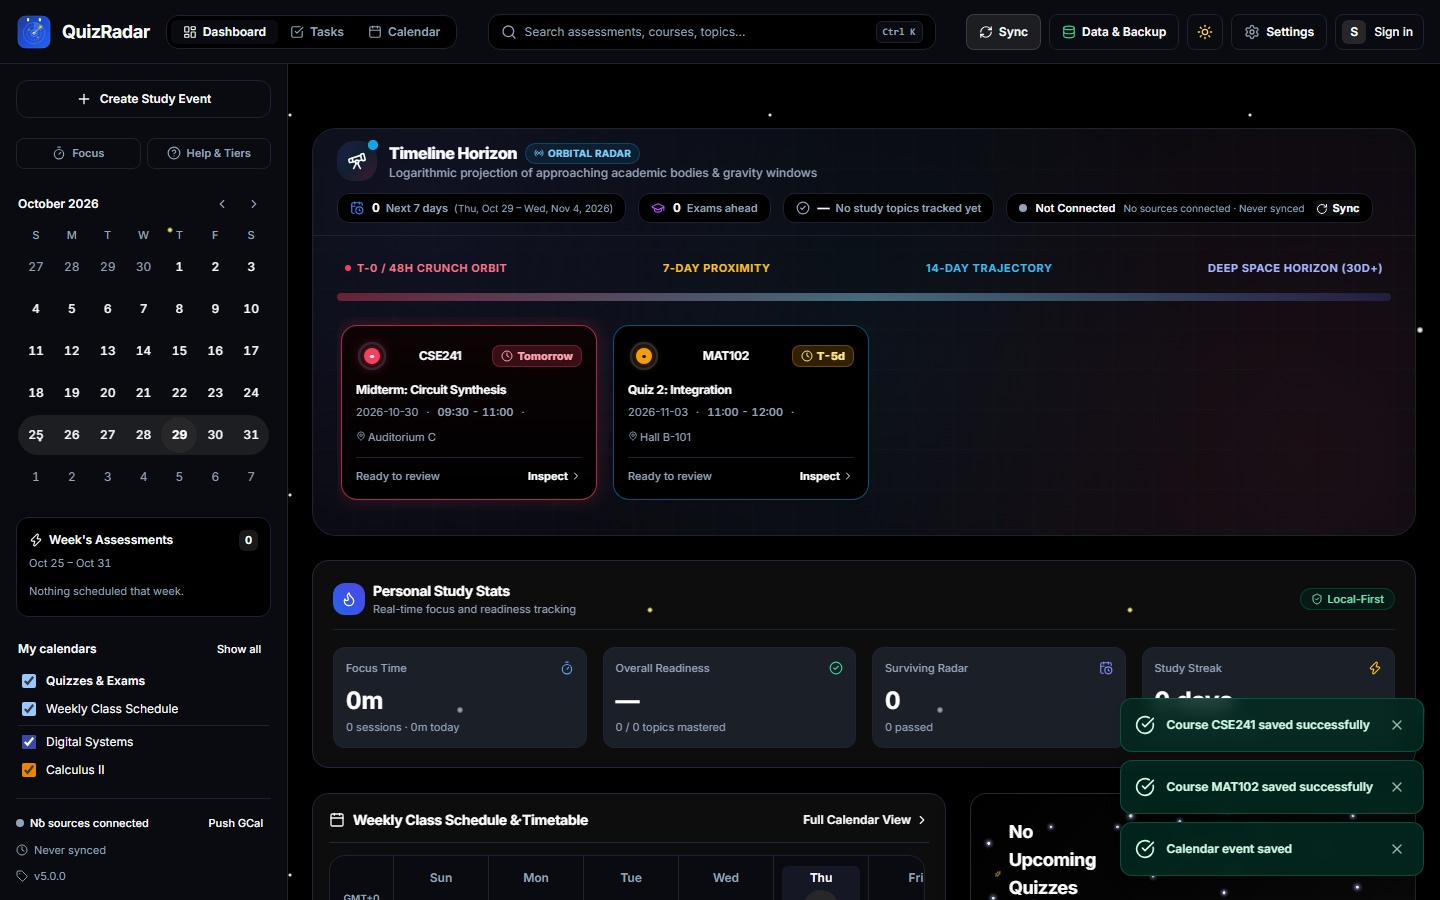
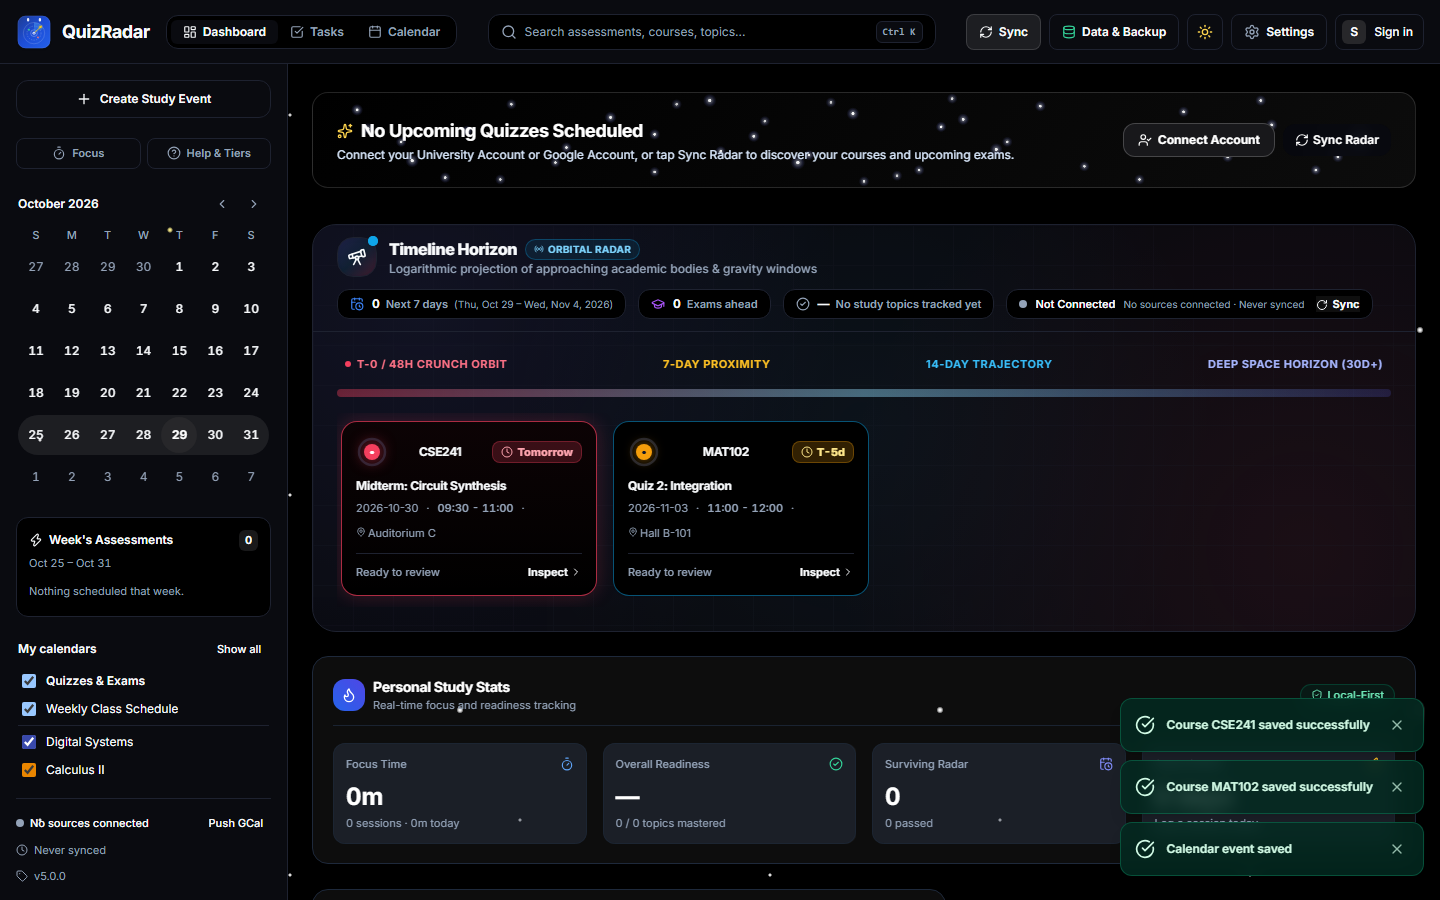
feat(observatory): position hero at top of canopy and implement proactive balanced conflict scheduler

diff --git a/apps/web/src/components/TimelineHorizon.tsx b/apps/web/src/components/TimelineHorizon.tsx
@@ -81,6 +81,7 @@ export const TimelineHorizon: React.FC<TimelineHorizonProps> = ({
 }) => {
   const theme = useAppStore((s) => s.theme);
   const courses = useAppStore((s) => s.data.schedule.courses);
+  const draftBalancedFlightPath = useAppStore((s) => s.draftBalancedFlightPath);
 
   // Map recommendations by assessment id for quick topic lookup
   const recMap = useMemo(() => {
@@ -334,9 +335,21 @@ export const TimelineHorizon: React.FC<TimelineHorizonProps> = ({
           <div className="space-y-4">
             {/* Horizon Temporal Scale Labels */}
             <div className="relative flex items-center justify-between text-[11px] font-bold tracking-wider uppercase text-[var(--text-muted)] px-2">
-              <div className="flex items-center gap-1.5 text-rose-500 dark:text-rose-400">
-                <span className="h-1.5 w-1.5 rounded-full bg-rose-500 animate-ping" />
-                <span>T-0 / 48H Crunch Orbit</span>
+              <div className="flex items-center gap-2">
+                <div className="flex items-center gap-1.5 text-rose-500 dark:text-rose-400">
+                  <span className="h-1.5 w-1.5 rounded-full bg-rose-500 animate-ping" />
+                  <span>T-0 / 48H Crunch Orbit</span>
+                </div>
+                {conflictAlerts.some((c) => !c.isMitigated) && (
+                  <button
+                    type="button"
+                    onClick={() => void draftBalancedFlightPath()}
+                    className="cursor-pointer inline-flex items-center gap-1 rounded-full border border-rose-500/30 bg-rose-500/10 hover:bg-rose-500/20 px-2 py-0.5 text-[10px] font-bold text-rose-600 dark:text-rose-300 transition"
+                  >
+                    <Sparkles className="h-2.5 w-2.5 text-rose-400" aria-hidden="true" />
+                    <span>Balance 48h Flight Path</span>
+                  </button>
+                )}
               </div>
               <div className="hidden sm:block text-amber-500 dark:text-amber-400">
                 <span>7-Day Proximity</span>

diff --git a/apps/web/src/components/ConflictBanner.tsx b/apps/web/src/components/ConflictBanner.tsx
@@ -10,6 +10,7 @@ export const ConflictBanner: React.FC = () => {
   const customEvents = useAppStore((s) => s.data.config.customEvents) || [];
   const dismissConflicts = useAppStore((s) => s.dismissConflicts);
   const scheduleStudyBlocks = useAppStore((s) => s.scheduleStudyBlocks);
+  const draftBalancedFlightPath = useAppStore((s) => s.draftBalancedFlightPath);
   const setView = useAppStore((s) => s.setView);
 
   // Hidden when dismissed or when no conflict alerts exist
@@ -137,13 +138,20 @@ export const ConflictBanner: React.FC = () => {
         </div>
       </div>
 
-      <div className="flex items-center gap-2 shrink-0">
+      <div className="flex items-center gap-2 shrink-0 flex-wrap">
         <button
           type="button"
-          onClick={() => scheduleStudyBlocks()}
-          className="px-3 py-1.5 rounded-lg bg-amber-700 hover:bg-amber-800 text-white text-xs font-bold transition flex items-center gap-1.5 shadow-2xs cursor-pointer"
+          onClick={() => void draftBalancedFlightPath()}
+          className="px-3 py-1.5 rounded-lg bg-emerald-600 hover:bg-emerald-700 text-white text-xs font-bold transition flex items-center gap-1.5 shadow-2xs cursor-pointer"
         >
-          <Sparkles className="h-3.5 w-3.5" aria-hidden="true" />
+          <Sparkles className="h-3.5 w-3.5 text-emerald-200" aria-hidden="true" />
+          <span>{copy.dashboard.conflictBanner.balancedFlightPathAction}</span>
+        </button>
+        <button
+          type="button"
+          onClick={() => void scheduleStudyBlocks()}
+          className="px-3 py-1.5 rounded-lg bg-amber-700/80 hover:bg-amber-800 text-white text-xs font-bold transition flex items-center gap-1.5 shadow-2xs cursor-pointer"
+        >
           <span>{copy.dashboard.conflictBanner.autoScheduleAction}</span>
         </button>
         <button

diff --git a/apps/web/src/state/store.ts b/apps/web/src/state/store.ts
@@ -1255,7 +1255,7 @@ export const useAppStore = create<AppStoreState>((set, get) => ({
           }
         }
         for (const ev of existingEvents) {
-          if (ev.dateIso === dateIso || ev.date === dateIso) {
+          if (ev.dateIso === dateIso) {
             if (ev.startTime && ev.endTime) {
               const eStart = parseInt(ev.startTime.slice(0, 2), 10) * 60 + parseInt(ev.startTime.slice(3, 5), 10);
               const eEnd = parseInt(ev.endTime.slice(0, 2), 10) * 60 + parseInt(ev.endTime.slice(3, 5), 10);
@@ -1296,8 +1296,8 @@ export const useAppStore = create<AppStoreState>((set, get) => ({
         if (!a1 || !a2 || !a1.dateIso || !a2.dateIso) continue;
 
         const [first, second] = a1.dateIso <= a2.dateIso ? [a1, a2] : [a2, a1];
-        const firstDate = first.dateIso;
-        const secondDate = second.dateIso;
+        const firstDate: string = first.dateIso!;
+        const secondDate: string = second.dateIso!;
 
         const planSchedule = [
           { target: first, dayOffset: 3, label: "Deep Focus Review", blockId: `study-block-${first.id}` },
@@ -1325,7 +1325,6 @@ export const useAppStore = create<AppStoreState>((set, get) => ({
               title: `Study: ${item.target.title} (${item.label})`,
               courseId: item.target.courseId ?? null,
               eventType: "Study Session",
-              date: targetDateIso,
               dateIso: targetDateIso,
               startTime: freeWin.start,
               endTime: freeWin.end,

diff --git a/apps/web/src/copy/conformance.test.ts b/apps/web/src/copy/conformance.test.ts
@@ -83,6 +83,7 @@ const FUNCTION_SAMPLES: ReadonlyArray<{ path: string; args: unknown[] }> = [
   { path: "dashboard.conflictBanner.mitigatedBody", args: [1] },
   { path: "dashboard.conflictBanner.partiallyMitigatedNote", args: [2] },
   { path: "dashboard.conflictBanner.blocksCreated", args: [2] },
+  { path: "dashboard.conflictBanner.balancedPathCreated", args: [3] },
   { path: "dashboard.conflictBanner.blocksSkippedUndated", args: [1] },
   { path: "dashboard.topicsCompletedProgress", args: [1, 4] },
   { path: "tasks.summaryLine", args: [3, 2, 4.5] },
